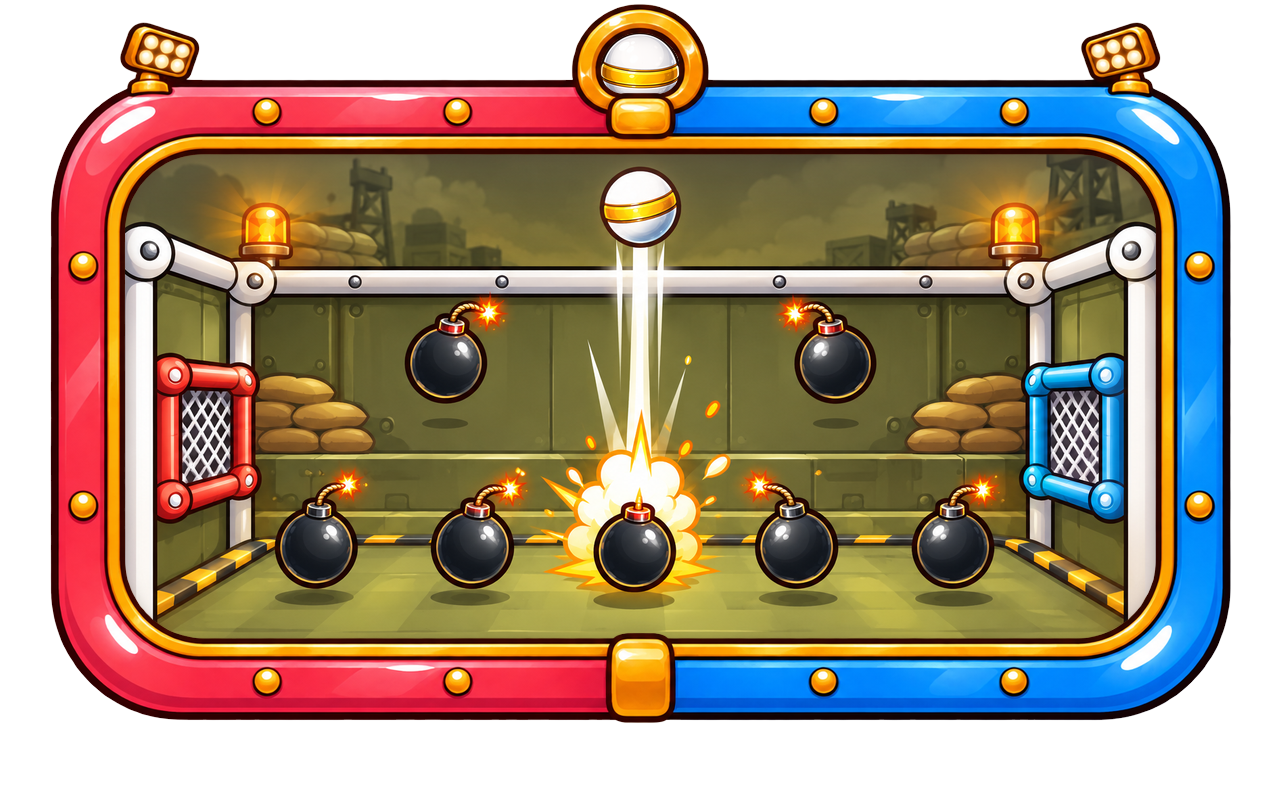
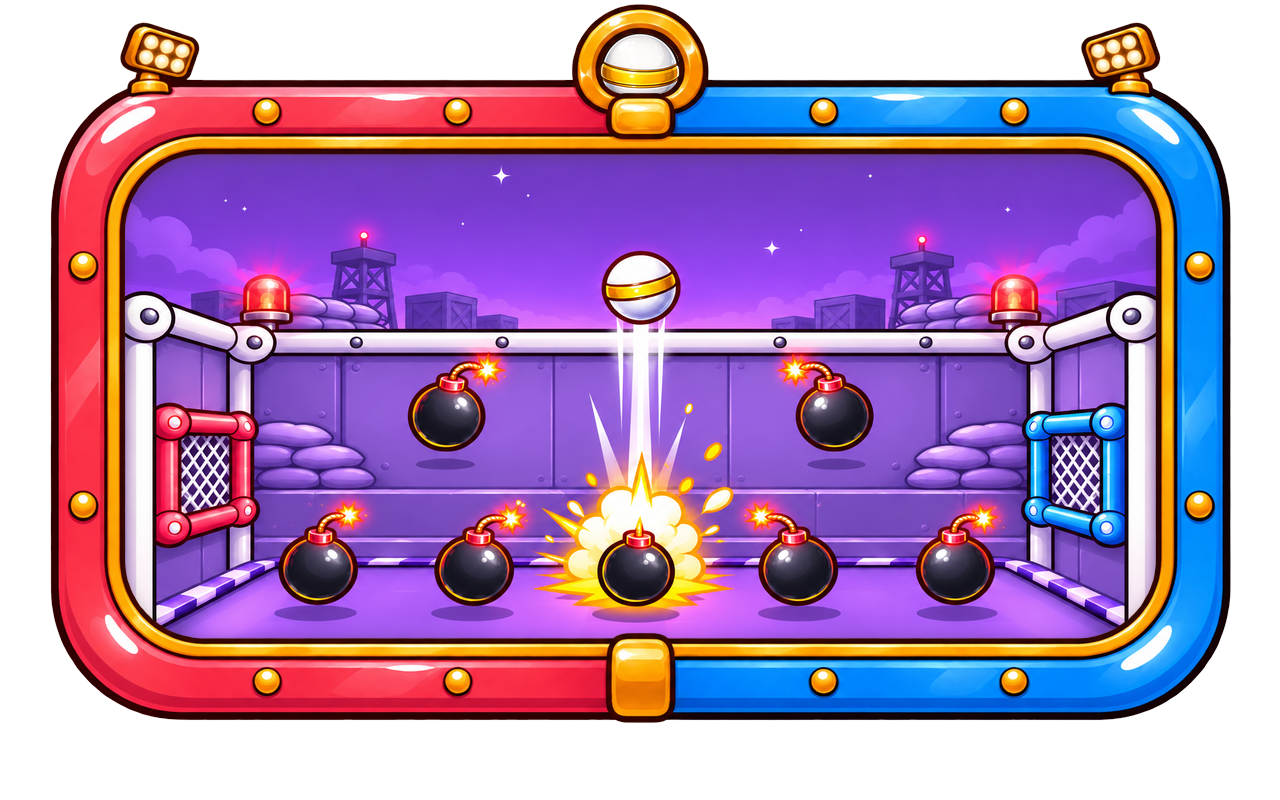
art: WK-65b MINEFIELD court card redrawn in a dusk-violet colour world (dE vs HAMMER YARD 18.2 -> 60.3; 36.6 when both locked)

diff --git a/assets/CATALOG.md b/assets/CATALOG.md
@@ -29,7 +29,7 @@ Every non-placeholder asset: what it is, how it was made, status. Prompts matter
 | `world/earth_tile.png` | SHIP-CANDIDATE | 2026-07-19 seamless TILEABLE cartoon earth/soil (1254x1254 opaque; verified 2x2 no-seam). Warm-brown packed dirt + embedded rocks/pebbles/roots, glossy toybox, even density, no border/grass. For the FLOATING-ISLANDS world rework: platform bodies tile this to full collider height (replaces the ugly void gradient). Generated NO style-ref (a tiling texture must have no outline/border seams) |
 | `ui/modes/mode_dropshot.png` | SHIP-CANDIDATE | 2026-11-15 WK-65/SP-17 M1 REGENERATED (brief docs/briefs/court_cards_2026-11-15.md 5e): VEX (purple markhor, ridged spiral horns, jetpack flame) spiking the beach ball over a white volleyball net (gold ball-knobs) on a floating sand patch. 1184x848 real alpha (mesh holes real alpha), first try; refs mode_sports + bouncer_purple_idle + ball_beach (flattened on white). Intake `fx_intake.py --width 1180` (haze clean + defringe). Raw `tools/out/wk/court_raw/mode_dropshot_raw.png`; old teal-goat/goal-cage v1 kept at `tools/out/court_cards/mode_dropshot_v1_goal.png`. Same ModeSelect path, no code change; SP-17 title-baseline check + in-game AD grade PENDING |
 | `ui/courts/_frame.png` | SHIP-CANDIDATE | 2026-11-15 WK-65 F1 shared "toy stadium screen" frame (1280x800 real alpha): red left / blue right glossy rim, gold bezel + rivets + join caps, 2 small floodlight pylons, empty gold ball socket. Raw `tools/out/wk/court_raw/frame_raw_v2.png` (re-rolled once: v1 `frame_raw.png` had pylons ~28% of frame height + oversized socket). Placed by `tools/court_badge_compose.py frame` (seeded flood masks, NO keyout-color): rect 1180 wide (shrunk from 1216 so the socket clears y>=4), aspect 1.84 (ChatGPT ignored 16:9), hole bbox (125,154)-(1155,637) = 1031x484 (2.13:1, wider than the brief's 1.90) |
-| `ui/courts/court_<id>.png` (x11) | SHIP-CANDIDATE | 2026-11-15 WK-65 I1-I11 painted court badges, 1280x800 RGBA, one per id in levels/sports_courts.json; frame pixel-identical on all 11 (rim diff = 0). Interiors generated in ONE chat (style_north_star + per-court refs: ball.png / ball_beach.png / goal_frame / net_dropshot_frame / hammer / bomb / crusher, alpha refs flattened on white), raws `tools/out/wk/court_raw/I_<id>.png`, composited by `python tools/court_badge_compose.py badges --dy minefield=-40 --dy dropshot_beach=-60 --dy dropshot_dome=-60` (uniform scale 0.6764 asserted, 4px-dilated hole mask, inner shadow + top sheen, real ball sprite in the socket). Re-rolls: THE CRUSHER once (v1 red-glow factory sat dE 11 from SCRAPHEAP; v2 = cool blue-grey steel; 2 of its 3 variants drew the BEACH ball = style bleed from the dropshot prompts, picked the gold-band one). HAMMER YARD + MINEFIELD came back as ChatGPT A/B pairs (picked A; B kept as `*_altB_unused.png`). Mipmaps ON in the .import (card shows ~0.29x). Neighbour dE76 all >=20 except hammer_yard->minefield 18.2 (silhouettes differ: one hammer vs a row of bombs). Proofs `tools/out/court_cards/sheet_{full,cardcrop,480}.png`, `tools/out/wk/WK-65_sheet.png`. NOT wired (programmer, brief section 7); in-game AD grade PENDING |
+| `ui/courts/court_<id>.png` (x11) | SHIP-CANDIDATE | 2026-11-15 WK-65 I1-I11 painted court badges, 1280x800 RGBA, one per id in levels/sports_courts.json; frame pixel-identical on all 11 (rim diff = 0). Interiors generated in ONE chat (style_north_star + per-court refs: ball.png / ball_beach.png / goal_frame / net_dropshot_frame / hammer / bomb / crusher, alpha refs flattened on white), raws `tools/out/wk/court_raw/I_<id>.png`, composited by `python tools/court_badge_compose.py badges --dy dropshot_beach=-60 --dy dropshot_dome=-60` (minefield dy=0 since WK-65b; the v1 olive raw used `--dy minefield=-40`) (uniform scale 0.6764 asserted, 4px-dilated hole mask, inner shadow + top sheen, real ball sprite in the socket). Re-rolls: THE CRUSHER once (v1 red-glow factory sat dE 11 from SCRAPHEAP; v2 = cool blue-grey steel; 2 of its 3 variants drew the BEACH ball = style bleed from the dropshot prompts, picked the gold-band one). HAMMER YARD + MINEFIELD came back as ChatGPT A/B pairs (picked A; B kept as `*_altB_unused.png`). Mipmaps ON in the .import (card shows ~0.29x). Neighbour dE76 all >=20 (v1 had hammer_yard->minefield 18.2, fixed by WK-65b). **WK-65b (2026-11-15) MINEFIELD re-rolled** (1 roll, first try) into a COOL DUSK VIOLET army-surplus yard: violet-plum sky with stars, lavender walls + sandbags, violet floor, red beacons, same mirrored 5+2 black-bomb layout + centre POP launching the gold-band ball. Refs: style_north_star + the v1 olive interior (as layout/camera ref); prompt = [STYLE]+[INTERIOR]+[ROCKETBALL]+ "Court: MINEFIELD ... Keep the SAME layout as the attached olive court ... CHANGE THE COLOUR WORLD COMPLETELY: must NOT look olive, khaki, brown, rust, orange or tan ... COOL DUSK army-surplus yard at twilight: violet-purple dusk sky (#3B2468 top -> #9B7BE0 horizon) ... mid-bright (not near-black) so the bombs stand out as crisp black shapes". New raw = `I_minefield.png`; old raw `I_minefield_v1_olive.png`, old badge `minefield_v1.png` (both in tools/out/wk/court_raw/). Composed from a scratch raw dir (only minefield re-composed; frame alpha + every visible frame pixel identical to the other 10 badges). Interior mean Lab: minefield L*49.5 a*41.8 b*-40.6; dE76 vs HAMMER YARD 60.3, vs THE CRUSHER 50.4 (locked-dim x(0.5,0.49,0.55): 36.6 / 30.2). Shelf proof `tools/out/wk/WK-65b_shelf_480.png` (+ `_1920.png`: before/after, unlocked + locked rows). Proofs `tools/out/court_cards/sheet_{full,cardcrop,480}.png`, `tools/out/wk/WK-65_sheet.png`. NOT wired (programmer, brief section 7); in-game AD grade PENDING |
 | `ui/circuits/crest_random.png` | SHIP-CANDIDATE | 2026-11-15 WK-65/UX4-12 R1 Brawl RANDOM ROTATION crest: gold shield, 5-wedge prize wheel (sun / gear / snowy peak / pouring crucible / crossed hammers) on a pink-to-gold sunburst, swooshes + confetti, no "?" or text. Refs crest_meadow_mile + crest_mayhem_mile. Raw `tools/out/wk/court_raw/crest_random_raw.png` (1254x1254 real alpha), intake `fx_intake.py --width 809` -> 813x922 (the brawl crest canvas width). Outline vs meadow at the same width: bbox height +2.7%, lower point tapers ~9% narrower at 85% height. NOT wired (brief section 7) |
 | `objects/ball_beach.png` | SHIP-CANDIDATE | 2026-07-19 DROPSHOT bespoke beach ball (709x689, body ~705px, real alpha); classic red/white/blue/yellow panels + white cap, glossy, chocolate outline. Ball.gd BEACH_TEX; configure_dropshot sets use_beach_tex + drops the warm tint (sprite carries its own colours). Replaces the tinted soccer ball; rendered-verified on Dropshot Beach |
 | `objects/moon.png` | SHIP-CANDIDATE | 2026-07-18 cratered toy planetoid (853x846, real alpha, chocolate outline); GravitySource "moon" visual draws it at body_r*2.08 (round bounce body); rendered-verified on Twin Moons — replaces the code-drawn circles (owner: no SVG-looking art) |
